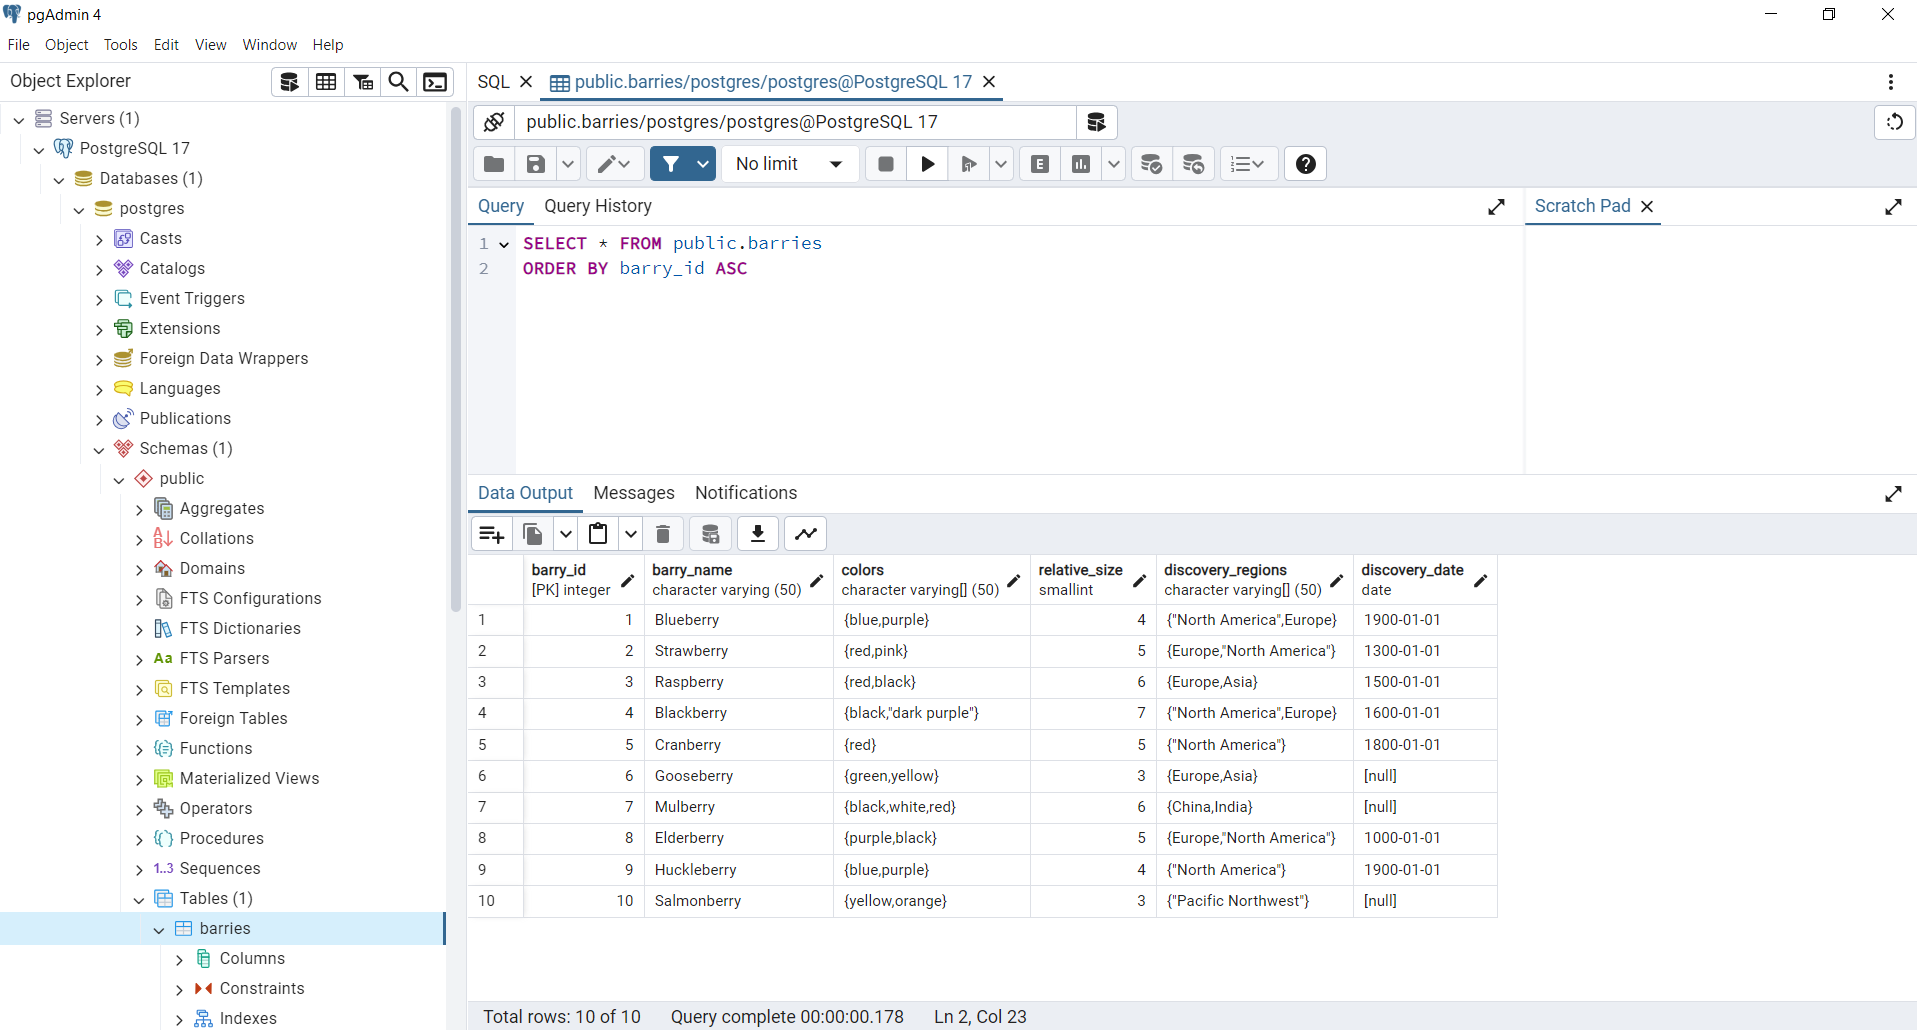
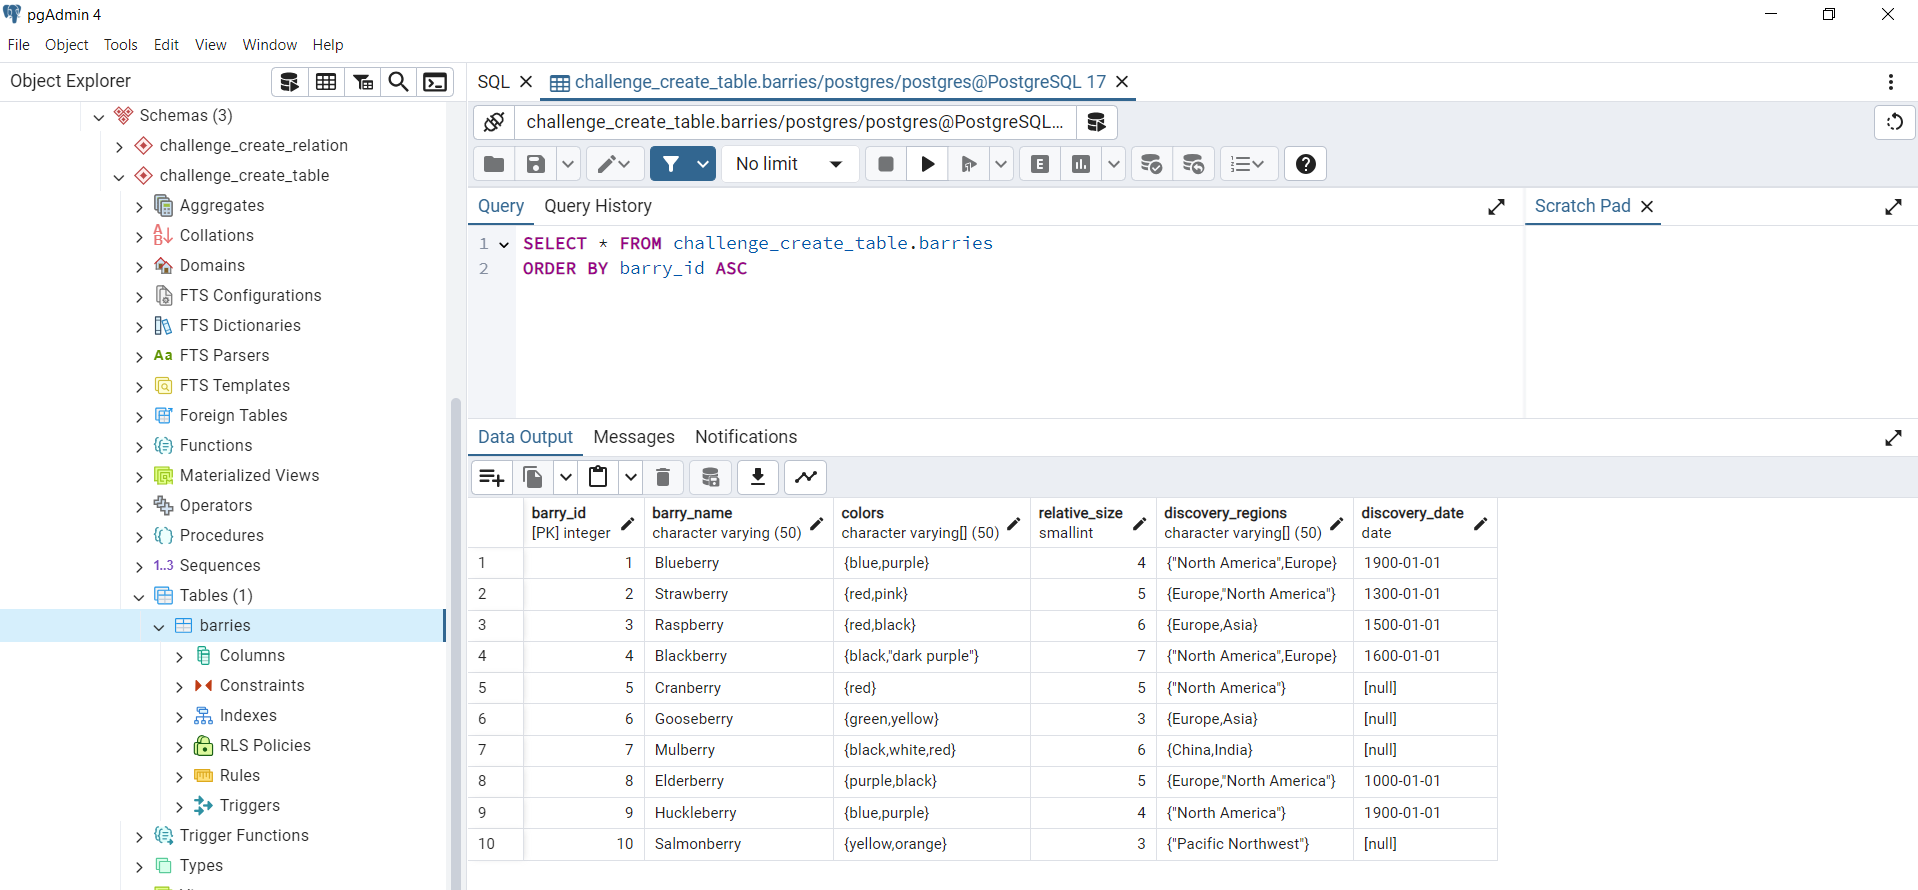
PostgreSQL: - challenge: create relation

diff --git a/PostgreSQL/README.md b/PostgreSQL/README.md
@@ -41,31 +41,47 @@ Inside database, we have next structure:
 
 ## Practice
 
-#### Solution to the challenge: Create Table
+### Challenge: Create Table
 
-Create new Table named `barries` in default `public` schema: 
+**Task:** 
+- Create table to store different kinds of Barry 
+- Have columns for `id`, `name`, `color` and any others to use different data types 
+- Check created table and its properties
+- Populate table with data
+- Check all rows of the table
+
+**Solution:**
+
+- Execute query to create new Schema `challenge_create_table` to separate this challenge:
 ```
-CREATE TABLE public.barries
+CREATE SCHEMA IF NOT EXISTS challenge_create_table
+    AUTHORIZATION postgres;
+```
+
+- Execute query to create new Table `barries` in `challenge_create_table` Schema: 
+```
+CREATE TABLE IF NOT EXISTS challenge_create_table.barries
 (
-    barry_id serial NOT NULL,
-    barry_name character varying(50) NOT NULL,
-    colors character varying(50)[] NOT NULL,
-    relative_size smallint DEFAULT 5,
+    barry_id          serial                   NOT NULL,
+    barry_name        character varying(50)    NOT NULL,
+    colors character  varying(50)[]            NOT NULL,
+    relative_size     smallint                           DEFAULT 5,
     discovery_regions character varying(50)[],
-    discovery_date date,
+    discovery_date    date,
     PRIMARY KEY (barry_id),
     CONSTRAINT relative_size_range_check CHECK (relative_size BETWEEN 1 AND 10) NOT VALID
 );
 ```
-In `pgAdmin` app &#8594; `barries` table &#8594; `SQL` tab it will look like this:
+
+- Check created table using `pgAdmin` app &#8594; `barries` table &#8594; `SQL` tab:
 
 ![](image/3.PNG)
 
-Insert data to `barries` table:
+- Execute query to insert data to `barries` table:
 
 ```
 INSERT 
-    INTO public.barries 
+    INTO challenge_create_table.barries 
         (barry_name,    colors,                         discovery_regions,                discovery_date,     relative_size) 
     VALUES
         ('Blueberry',   ARRAY['blue', 'purple'],        ARRAY['North America', 'Europe'], '1900-01-01'::date,             4),
@@ -80,6 +96,154 @@ INSERT
         ('Salmonberry', ARRAY['yellow', 'orange'],      ARRAY['Pacific Northwest'],       NULL,                           3);  -- NULL for discovery_date
 ```
 
-In `pgAdmin` app &#8594; `barries` table &#8594; `All Rows` button it will look like this:
+- Check data persistence using `pgAdmin` app &#8594; `barries` table &#8594; `All Rows` button:
 
 ![](image/4.PNG)
+
+### Challenge: Create Relation
+
+**Task:** 
+- Create table `departments` with columns `id`, `name`, `building`
+- Create table `employees` with columns `id`, `full_name`, `hire_date`, `department_id`
+- Create foreign key relation between tables on `department_id`
+- Populate tables with data
+- Check how relation works when creating `employee` with not existing `department`
+- Check how relation works when updating `employee` by setting not existing `department`
+- Check how relation works when updating `department` by setting new `id`,
+  when some `employee` references this `department` 
+- Check how relation works when deleting `department`,
+  when some `employee` references this `department`
+
+**Solution:**
+
+- Execute query to create Schema `challenge_create_relation` to separate this challenge:
+```
+CREATE SCHEMA IF NOT EXISTS challenge_create_relation
+    AUTHORIZATION postgres;
+```
+
+- Execute query to create Table `departments` in `challenge_create_relation` Schema:
+``` 
+CREATE TABLE IF NOT EXISTS challenge_create_relation.departments
+(
+    department_id   serial                  NOT NULL,
+    department_name character varying(50)   NOT NULL,
+    building        character varying(100),
+    PRIMARY KEY (department_id)
+);
+```
+
+- Execute query to create Table `employees` in `challenge_create_relation` Schema:
+```
+CREATE TABLE IF NOT EXISTS challenge_create_relation.employees
+(
+    employee_id         serial       NOT NULL,
+    full_name character varying(100) NOT NULL,
+    hire_date           date,
+    department_id       integer,
+    PRIMARY KEY (employee_id),
+    FOREIGN KEY (department_id)
+        REFERENCES challenge_create_relation.departments (department_id) MATCH SIMPLE
+        ON UPDATE RESTRICT
+        ON DELETE RESTRICT
+        NOT VALID
+);
+```
+
+- Execute query to insert data to `departments` table:
+```
+INSERT 
+    INTO challenge_create_relation.departments
+        (department_name,     building   ) 
+    VALUES 
+        ('Human Resources',  'Building A'), 
+        ('Marketing',        'Building B'), 
+        ('Finance',          'Building C'), 
+        ('Sales',            'Building D'), 
+        ('IT',               'Building E'), 
+        ('Legal',            'Building F'), 
+        ('Operations',       'Building G'), 
+        ('Research',         'Building H'), 
+        ('Engineering',      'Building I'), 
+        ('Customer Service', 'Building J');
+```
+
+- Execute query to insert data to `employees` table:
+```
+INSERT 
+    INTO challenge_create_relation.employees 
+        (full_name,       hire_date,    department_id) 
+    VALUES
+        ('Alice Johnson', '2022-01-15',             1),
+        ('Bob Smith',     '2021-03-22',             2),
+        ('Charlie Brown', '2020-07-18',             3),
+        ('Dana White',    '2019-11-08',             4),
+        ('Eli Black',     '2018-09-14',             5),
+        ('Fiona Green',   '2017-05-23',             6),
+        ('George Blue',   '2016-12-30',             7),
+        ('Hannah Grey',   '2015-04-05',             8),
+        ('Ivy Purple',    '2014-10-19',             9),
+        ('Jack Red',      '2013-08-25',            10);
+```
+
+- Execute query to check that foreign key protects `employees` table
+  from creating `employee` with not existing `department`:
+
+```
+INSERT 
+    INTO challenge_create_relation.employees (full_name, hire_date, department_id)
+    VALUES ('Alice Johnson', '2022-01-15', 11);
+```
+```
+----- Messages ---------------------------------------------------------------------------------------------
+ERROR:  Insert or update in table "employees" violates foreign key constraint "employees_department_id_fkey"
+SQL state: 23503
+Detail: Key (department_id)=(11) does not exist in table "departments".
+------------------------------------------------------------------------------------------------------------
+```
+
+- Execute query to check that foreign key protects `employees` table
+  from setting `employee.department_id` to not existing `department`:
+
+```
+UPDATE challenge_create_relation.employees 
+SET department_id = 11 
+WHERE employee_id = 1;
+```
+```
+----- Messages ---------------------------------------------------------------------------------------------
+ERROR:  Insert or update in table "employees" violates foreign key constraint "employees_department_id_fkey"
+SQL state: 23503
+Detail: Key (department_id)=(11) does not exist in table "departments".
+------------------------------------------------------------------------------------------------------------
+```
+
+- Execute query to check that foreign key protects `departments` table
+  from changing `department_id` when some `employee` refers this `department`:
+```
+UPDATE challenge_create_relation.departments
+SET department_id = 11
+WHERE department_id = 1;
+```
+```
+----- Messages ---------------------------------------------------------------------------------------------
+ERROR:  Update or delete in table "departments" violates foreign key constraint "employees_department_id_fkey" in table "employees"
+SQL state: 23503
+Detail: Key (department_id)=(1) is still referenced in the table "employees".
+------------------------------------------------------------------------------------------------------------
+```
+
+- Execute query to check that foreign key protects `departments` table
+  from deleting `department` when some `employee` refers it:
+```
+DELETE FROM challenge_create_relation.departments
+WHERE department_id = 1;
+```
+```
+----- Messages ---------------------------------------------------------------------------------------------
+ERROR:  Update or delete in table "departments" violates foreign key constraint "employees_department_id_fkey" in table "employees"
+SQL state: 23503
+Detail: Key (department_id)=(1) is still referenced in the table "employees".
+------------------------------------------------------------------------------------------------------------
+```
+
